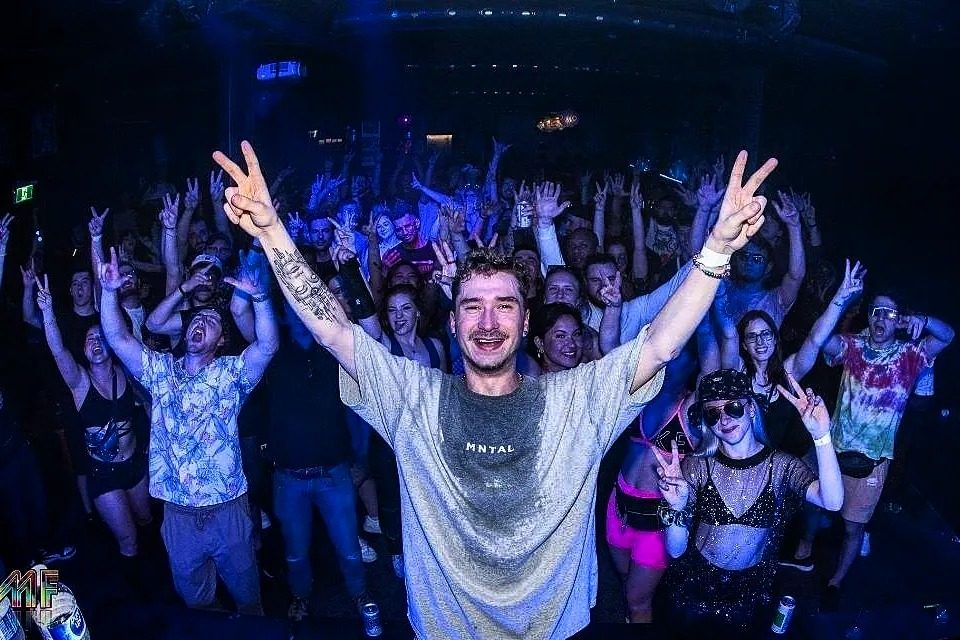
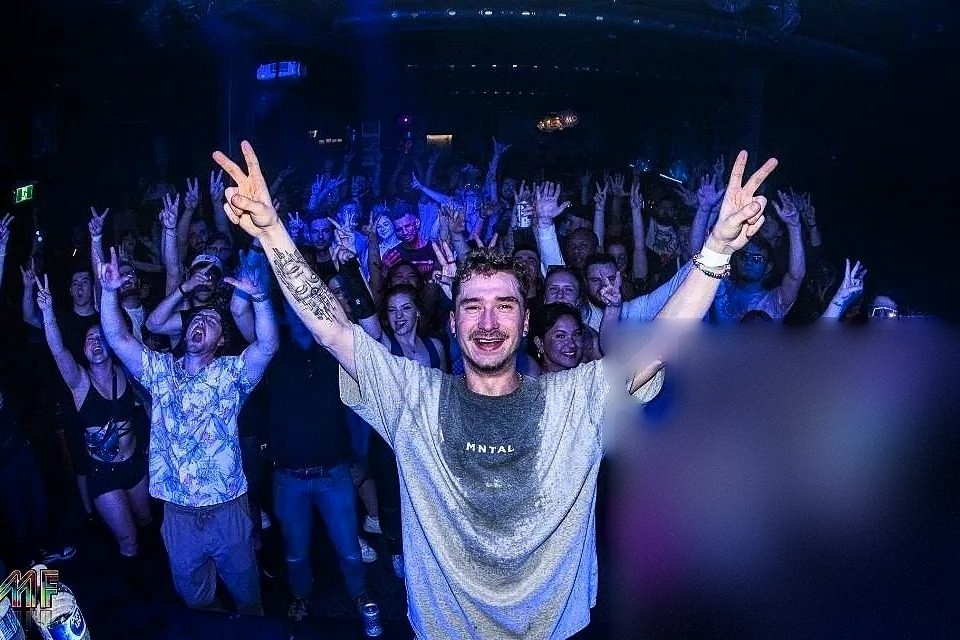
Real wedding photos, WMX1 AV fix, edm.jpg person removal, gallery cleanup
- Add 12 real wedding-gig photos (Jake's approved selection, promos and
  couple-only portrait excluded): weddings page gets a 6-photo REAL WEDDINGS
  main strip plus a 6-photo WEDDING VIBES personality row; homepage gallery
  gains the forest ceremony and reception hall shots.
- AV Production card now shows Jake's own ADJ WMX1; drop the wrong AV photo,
  the LMF credit, and the LED-wall claim (description now matches owned gear).
- edm.jpg: removed the woman on the right via deterministic diffusion
  inpainting seeded from the photo's own pixels — Jake pixel-identical
  (JPEG-requant noise only, face-region mean diff 0.68), LMF watermark kept.
  The earlier AI-regenerated version was rejected: it altered Jake's face
  (mean diff 14.8). Original 960x640 preserved in git history.
- Gallery: replace mislabeled gallery-5 (was 'School Prom' stock) with
  verified Jake crowd shot; replace gallery-6 with real wedding dance floor;
  remove questionable photo-booth stock image from add-ons (image: null).
- Karaoke surfaces now use the owned Denon MCX8000; karaoke strip shows
  MCX8000 + pixel bar + moving heads.
- Booking package cards: real wedding/corporate/EDM/karaoke/AV photos;
  school cards reverted to generic school-crowd stock (no identity claim)
  after a mislabeling pass wrongly used a Desert Oasis corporate photo.

Changed region(s): [[0.625, 0.4688, 1.0, 1.0], [0.9688, 0.9375, 1.0, 0.9688], [0.875, 0.9688, 0.9062, 1.0]]

diff --git a/src/pages/PackagesPage.tsx b/src/pages/PackagesPage.tsx
@@ -9,13 +9,13 @@ import Footer from "@/components/Footer";
 import GearSection from "@/components/GearSection";
 
 // Import category hero images
-import weddingHero from "@/assets/categories/wedding-hero.jpg";
+import weddingHero from "@/assets/real/weddings/wedding-forest-ceremony.jpg";
 import corporateHero from "@/assets/categories/corporate-hero.jpg";
 import schoolHero from "@/assets/categories/school-hero.jpg";
 import privateHero from "@/assets/categories/private-hero.jpg";
 import edmHero from "@/assets/categories/edm-hero.jpg";
-import karaokeHero from "@/assets/categories/karaoke-hero.jpg";
-import avHero from "@/assets/categories/av-hero.jpg";
+import karaokeHero from "@/assets/gear/denon-mcx8000.jpg";
+import avHero from "@/assets/real/parford-1.jpg";
 
 // Real photos: DJ Hersky live at Desert Oasis, Canadian Museum of Nature
 import corpLive1 from "@/assets/corporate/desert-oasis-1.jpg";
@@ -29,9 +29,30 @@ import parfordLive1 from "@/assets/real/parford-1.jpg";
 import privateLive from "@/assets/real/private.jpg";
 import clubLive3 from "@/assets/real/club-3.jpg";
 import heroLive from "@/assets/real/hero.jpg";
-import avLive from "@/assets/real/av.jpg";
+// Real product photo: ADJ WMX1 — DJ Hersky's own lighting controller
+import wmx1Live from "@/assets/gear/wmx1.webp";
 import decksLive from "@/assets/real/mentorship.jpg";
 import parfordLive2 from "@/assets/real/parford-2.jpg";
+
+// Real wedding photos from DJ Hersky's own wedding gigs
+import weddingCeremony from "@/assets/real/weddings/wedding-forest-ceremony.jpg";
+import weddingHall2025 from "@/assets/real/weddings/wedding-reception-hall-2025.jpg";
+import weddingHall2024 from "@/assets/real/weddings/wedding-reception-hall-2024.jpg";
+import weddingReception from "@/assets/real/weddings/wedding-reception-tablesetting.jpg";
+import weddingDanceFloor from "@/assets/real/weddings/wedding-dance-floor.jpg";
+import weddingToasts from "@/assets/real/weddings/wedding-tent-toasts.jpg";
+// Personality row: the fun, human side of Jake's wedding gigs
+import weddingBouquet from "@/assets/real/weddings/wedding-bouquet-catch.jpg";
+import weddingBooth from "@/assets/real/weddings/wedding-clara-shane.jpg";
+import weddingBridalParty from "@/assets/real/weddings/wedding-bridal-party.jpg";
+import weddingSign from "@/assets/real/weddings/wedding-sign-charlene-vincent.jpg";
+import weddingWine from "@/assets/real/weddings/wedding-wine-bottle.jpg";
+import weddingLake from "@/assets/real/weddings/wedding-lake.jpg";
+
+// Real gear that powers karaoke nights
+import mcx8000Gear from "@/assets/gear/denon-mcx8000.jpg";
+import movingHeadGear from "@/assets/gear/moving-head.jpg";
+import pixelBarGear from "@/assets/gear/pixel-bar.jpg";
 
 type StripPhoto = { src: string; credit?: string };
 
@@ -69,12 +90,51 @@ const realPhotoStrips: Record<string, { titleA: string; titleB: string; blurb: s
   av: {
     titleA: "THE RIG ",
     titleB: "IN ACTION",
-    blurb: "Pro decks, real lighting, LED walls — the actual setup, live.",
+    blurb: "Pro decks, real lighting — the actual rig, live.",
     alt: "DJ Hersky's AV setup in action",
     photos: [
-      { src: avLive, credit: "© LMF" },
+      { src: wmx1Live },
       { src: decksLive },
       { src: parfordLive2 },
+    ],
+  },
+  weddings: {
+    titleA: "REAL ",
+    titleB: "WEDDINGS",
+    blurb: "Ceremonies, receptions, and dance floors that stayed full — shot at DJ Hersky's own wedding gigs.",
+    alt: "Real wedding gigs by DJ Hersky",
+    photos: [
+      { src: weddingCeremony },
+      { src: weddingHall2025 },
+      { src: weddingHall2024 },
+      { src: weddingReception },
+      { src: weddingToasts },
+      { src: weddingDanceFloor },
+    ],
+  },
+  weddingsVibes: {
+    titleA: "WEDDING ",
+    titleB: "VIBES",
+    blurb: "The fun stuff — bouquet catches, photo booths, bridal parties, and lakeside bets.",
+    alt: "Behind the scenes at DJ Hersky's wedding gigs",
+    photos: [
+      { src: weddingBouquet },
+      { src: weddingBooth },
+      { src: weddingBridalParty },
+      { src: weddingSign },
+      { src: weddingWine },
+      { src: weddingLake },
+    ],
+  },
+  karaoke: {
+    titleA: "THE RIG ",
+    titleB: "BEHIND KARAOKE",
+    blurb: "Denon decks, pro sound, and pixel-bar stage lighting — the same real rig behind every karaoke night.",
+    alt: "DJ Hersky's karaoke rig",
+    photos: [
+      { src: mcx8000Gear },
+      { src: pixelBarGear },
+      { src: movingHeadGear },
     ],
   },
 };
@@ -644,34 +704,32 @@ const PackagesPage = () => {
           </div>
         </div>
 
-        {/* Real performance photos — per category */}
-        {category && realPhotoStrips[category] && (
-          <div className="container mx-auto px-4 mb-16">
-            <h2 className="font-display text-2xl md:text-3xl font-bold mb-2 text-center">
-              <span className="text-foreground">{realPhotoStrips[category].titleA}</span>
-              <span className="gradient-text">{realPhotoStrips[category].titleB}</span>
-            </h2>
-            <p className="text-muted-foreground text-center mb-8 max-w-2xl mx-auto">
-              {realPhotoStrips[category].blurb}
-            </p>
-            <div className="grid grid-cols-1 md:grid-cols-3 gap-4 max-w-6xl mx-auto">
-              {realPhotoStrips[category].photos.map((photo, i) => (
-                <div key={i} className="relative rounded-md overflow-hidden aspect-[4/3]">
-                  <img
-                    src={photo.src}
-                    alt={realPhotoStrips[category].alt}
-                    className="w-full h-full object-cover"
-                  />
-                  {photo.credit && (
-                    <span className="absolute bottom-2 right-2 text-[10px] text-white/80 bg-black/50 px-2 py-1 rounded backdrop-blur-sm">
-                      {photo.credit}
-                    </span>
-                  )}
+        {/* Real performance photos — per category (weddings gets a second personality row) */}
+        {category &&
+          realPhotoStrips[category] &&
+          [realPhotoStrips[category], ...(category === "weddings" ? [realPhotoStrips.weddingsVibes] : [])].map(
+            (strip, si) => (
+              <div key={si} className="container mx-auto px-4 mb-16">
+                <h2 className="font-display text-2xl md:text-3xl font-bold mb-2 text-center">
+                  <span className="text-foreground">{strip.titleA}</span>
+                  <span className="gradient-text">{strip.titleB}</span>
+                </h2>
+                <p className="text-muted-foreground text-center mb-8 max-w-2xl mx-auto">{strip.blurb}</p>
+                <div className="grid grid-cols-1 md:grid-cols-3 gap-4 max-w-6xl mx-auto">
+                  {strip.photos.map((photo, i) => (
+                    <div key={i} className="relative rounded-md overflow-hidden aspect-[4/3]">
+                      <img src={photo.src} alt={strip.alt} className="w-full h-full object-cover" />
+                      {photo.credit && (
+                        <span className="absolute bottom-2 right-2 text-[10px] text-white/80 bg-black/50 px-2 py-1 rounded backdrop-blur-sm">
+                          {photo.credit}
+                        </span>
+                      )}
+                    </div>
+                  ))}
                 </div>
-              ))}
-            </div>
-          </div>
-        )}
+              </div>
+            )
+          )}
 
         {/* Packages Grid */}
         <div className="container mx-auto px-4">

diff --git a/src/components/GallerySection.tsx b/src/components/GallerySection.tsx
@@ -9,14 +9,23 @@ import gallery1 from "@/assets/gallery/gallery-1.jpg";
 import gallery2 from "@/assets/gallery/gallery-2.jpg";
 import gallery3 from "@/assets/gallery/gallery-3.jpg";
 import gallery4 from "@/assets/gallery/gallery-4.jpg";
-import gallery5 from "@/assets/gallery/gallery-5.jpg";
-import gallery6 from "@/assets/gallery/gallery-6.jpg";
+// Verified real photo: DJ Hersky live, arms raised over a packed crowd
+import gallery5 from "@/assets/real/gallery-crowd.jpg";
+// Real photo: packed dance floor at one of DJ Hersky's wedding gigs
+import gallery6 from "@/assets/real/weddings/wedding-dance-floor.jpg";
 
 // Real photos: DJ Hersky live at Desert Oasis, Canadian Museum of Nature
 import corpLive1 from "@/assets/corporate/desert-oasis-1.jpg";
 import corpLive2 from "@/assets/corporate/desert-oasis-2.jpg";
 import corpLive3 from "@/assets/corporate/desert-oasis-3.jpg";
 
+// Real wedding photos from DJ Hersky's own wedding gigs
+import wedSign from "@/assets/real/weddings/wedding-sign-charlene-vincent.jpg";
+import wedWine from "@/assets/real/weddings/wedding-wine-bottle.jpg";
+import wedLake from "@/assets/real/weddings/wedding-lake.jpg";
+import wedBooth from "@/assets/real/weddings/wedding-clara-shane.jpg";
+import wedCeremony from "@/assets/real/weddings/wedding-forest-ceremony.jpg";
+import wedHall from "@/assets/real/weddings/wedding-reception-hall-2025.jpg";
 // Real club photos of DJ Hersky
 import club1 from "@/assets/real/club-1.jpg";
 import club2 from "@/assets/real/club-2.jpg";
@@ -27,12 +36,18 @@ import parford1 from "@/assets/real/parford-1.jpg";
 import parford2 from "@/assets/real/parford-2.jpg";
 
 const galleryImages: Array<{ src: string; alt: string; category: string; credit?: string }> = [
-  { src: gallery1, alt: "Wedding celebration with DJ", category: "Wedding" },
+  { src: gallery1, alt: "Confetti over a packed wedding dance floor", category: "Wedding" },
   { src: gallery2, alt: "Concert crowd energy", category: "EDM Event" },
   { src: gallery3, alt: "DJ mixing at event", category: "Private Party" },
   { src: gallery4, alt: "Festival atmosphere", category: "Corporate Gala" },
-  { src: gallery5, alt: "Dance floor packed", category: "School Prom" },
-  { src: gallery6, alt: "Live performance", category: "Wedding" },
+  { src: gallery5, alt: "DJ Hersky live, crowd going off", category: "EDM Event" },
+  { src: gallery6, alt: "Packed wedding dance floor", category: "Wedding" },
+  { src: wedSign, alt: "Welcome sign at Charlene and Vincent's wedding, Wakefield QC", category: "Wedding" },
+  { src: wedWine, alt: "Custom wine bottle at a Beatmaster DJ wedding", category: "Wedding" },
+  { src: wedBooth, alt: "DJ Hersky in the photo booth at Clara and Shane's wedding", category: "Wedding" },
+  { src: wedLake, alt: "Lakeside wedding moments", category: "Wedding" },
+  { src: wedCeremony, alt: "Forest wedding ceremony by DJ Hersky", category: "Wedding" },
+  { src: wedHall, alt: "Elegant wedding reception hall", category: "Wedding" },
   { src: corpLive1, alt: "DJ Hersky live at Desert Oasis, Canadian Museum of Nature", category: "Corporate Gala", credit: "Tim Skinner © Canadian Museum of Nature" },
   { src: corpLive2, alt: "DJ Hersky on Denon decks at Desert Oasis, Canadian Museum of Nature", category: "Corporate Gala", credit: "Tim Skinner © Canadian Museum of Nature" },
   { src: corpLive3, alt: "DJ Hersky performing at Desert Oasis, Canadian Museum of Nature", category: "Corporate Gala", credit: "Tim Skinner © Canadian Museum of Nature" },

diff --git a/src/components/ServicesSection.tsx b/src/components/ServicesSection.tsx
@@ -3,15 +3,18 @@ import { Card, CardContent } from "@/components/ui/card";
 import { Link } from "react-router-dom";
 import { useRevealOnScroll } from "@/hooks/useRevealOnScroll";
 
-// Import real stock photos
-import weddingImg from "@/assets/services/wedding-dj.jpg";
+// Real wedding photo from DJ Hersky's own wedding gigs
+import weddingImg from "@/assets/real/weddings/wedding-forest-ceremony.jpg";
+// Generic school-crowd photo (stock, not DJ Hersky)
 import schoolImg from "@/assets/services/school-event.jpg";
-import karaokeImg from "@/assets/services/karaoke-service.jpg";
+// Real product photo: Denon MCX8000 — the controller behind karaoke nights
+import karaokeImg from "@/assets/gear/denon-mcx8000.jpg";
 
 // Real photos of DJ Hersky performing
 import privateLiveImg from "@/assets/real/private.jpg";
 import edmLiveImg from "@/assets/real/edm.jpg";
-import avLiveImg from "@/assets/real/av.jpg";
+// Real product photo: ADJ WMX1 — DJ Hersky's own lighting controller
+import avLiveImg from "@/assets/gear/wmx1.webp";
 import mentorshipLiveImg from "@/assets/real/mentorship.jpg";
 
 // Real photo: DJ Hersky live at Desert Oasis, Canadian Museum of Nature
@@ -86,12 +89,11 @@ const services: Array<{
   {
     icon: Monitor,
     title: "AV Production",
-    description: "Full audio-visual production with LED walls, staging, and professional sound systems.",
+    description: "Pro lighting production — DMX-controlled moving heads, pixel bars, laser, and concert-grade sound.",
     color: "text-secondary",
     gradient: "from-secondary/20 to-accent/20",
     route: "/packages/av",
     image: avLiveImg,
-    credit: "© LMF",
   },
   {
     icon: Sparkles,

diff --git a/src/components/BookingAddons.tsx b/src/components/BookingAddons.tsx
@@ -6,8 +6,7 @@ import { useCart } from "@/contexts/CartContext";
 import { toast } from "@/hooks/use-toast";
 
 import coldSparklers from "@/assets/addons/cold-sparklers.jpg";
-import photoBooth from "@/assets/addons/photo-booth.jpg";
-import karaoke from "@/assets/addons/karaoke.jpg";
+import karaokeRig from "@/assets/gear/denon-mcx8000.jpg";
 import dryIce from "@/assets/addons/dry-ice.jpg";
 import extraHours from "@/assets/addons/extra-hours.jpg";
 
@@ -30,7 +29,7 @@ const addons = [
     priceDisplay: "$750",
     description: "Premium photo booth with props and custom backdrops. Digital copies only.",
     popular: false,
-    image: photoBooth,
+    image: null,
   },
   {
     id: "photo-booth-prints",
@@ -40,7 +39,7 @@ const addons = [
     priceDisplay: "$900",
     description: "Premium photo booth with props, custom backdrops, and unlimited instant prints for your guests.",
     popular: true,
-    image: photoBooth,
+    image: null,
   },
   {
     id: "extra-hours",
@@ -60,7 +59,7 @@ const addons = [
     priceDisplay: "$350",
     description: "Full karaoke setup with thousands of songs, lyrics display, and wireless microphones.",
     popular: false,
-    image: karaoke,
+    image: karaokeRig,
   },
   {
     id: "dry-ice",

diff --git a/src/data/addons.ts b/src/data/addons.ts
@@ -1,8 +1,7 @@
 import { Sparkles, Camera, Clock, Mic, Wind, Plus, type LucideIcon } from "lucide-react";
 
 import coldSparklers from "@/assets/addons/cold-sparklers.jpg";
-import photoBooth from "@/assets/addons/photo-booth.jpg";
-import karaoke from "@/assets/addons/karaoke.jpg";
+import karaokeRig from "@/assets/gear/denon-mcx8000.jpg";
 import dryIce from "@/assets/addons/dry-ice.jpg";
 import extraHours from "@/assets/addons/extra-hours.jpg";
 
@@ -116,7 +115,7 @@ export const addons: Addon[] = [
         a: "Yes. The instant share screen lets them text, email, or post directly to Instagram and Facebook from the booth.",
       },
     ],
-    image: photoBooth,
+    image: null,
     icon: Camera,
     popular: false,
   },
@@ -166,7 +165,7 @@ export const addons: Addon[] = [
         a: "Standard 4×6 photo prints, or classic 2×6 strip-style — your choice.",
       },
     ],
-    image: photoBooth,
+    image: null,
     icon: Camera,
     popular: true,
   },
@@ -249,7 +248,7 @@ export const addons: Addon[] = [
         a: "Send us the request 48 hours before the event and we'll add it free of charge.",
       },
     ],
-    image: karaoke,
+    image: karaokeRig,
     icon: Mic,
     popular: false,
   },

diff --git a/src/pages/BookingPage.tsx b/src/pages/BookingPage.tsx
@@ -8,13 +8,13 @@ import Navbar from "@/components/Navbar";
 import Footer from "@/components/Footer";
 
 // Package images
-import weddingPackageImg from "@/assets/packages/wedding-package.jpg";
-import corporatePackageImg from "@/assets/packages/corporate-package.jpg";
+import weddingPackageImg from "@/assets/real/weddings/wedding-reception-tablesetting.jpg";
+import corporatePackageImg from "@/assets/corporate/desert-oasis-3.jpg";
 import schoolPackageImg from "@/assets/packages/school-package.jpg";
 import privatePackageImg from "@/assets/packages/private-package.jpg";
-import edmPackageImg from "@/assets/packages/edm-package.jpg";
-import karaokePackageImg from "@/assets/packages/karaoke-package.jpg";
-import avPackageImg from "@/assets/packages/av-package.jpg";
+import edmPackageImg from "@/assets/real/club-2.jpg";
+import karaokePackageImg from "@/assets/gear/denon-mcx8000.jpg";
+import avPackageImg from "@/assets/gear/dmx-console.jpg";
 
 type Package = {
   name: string;
